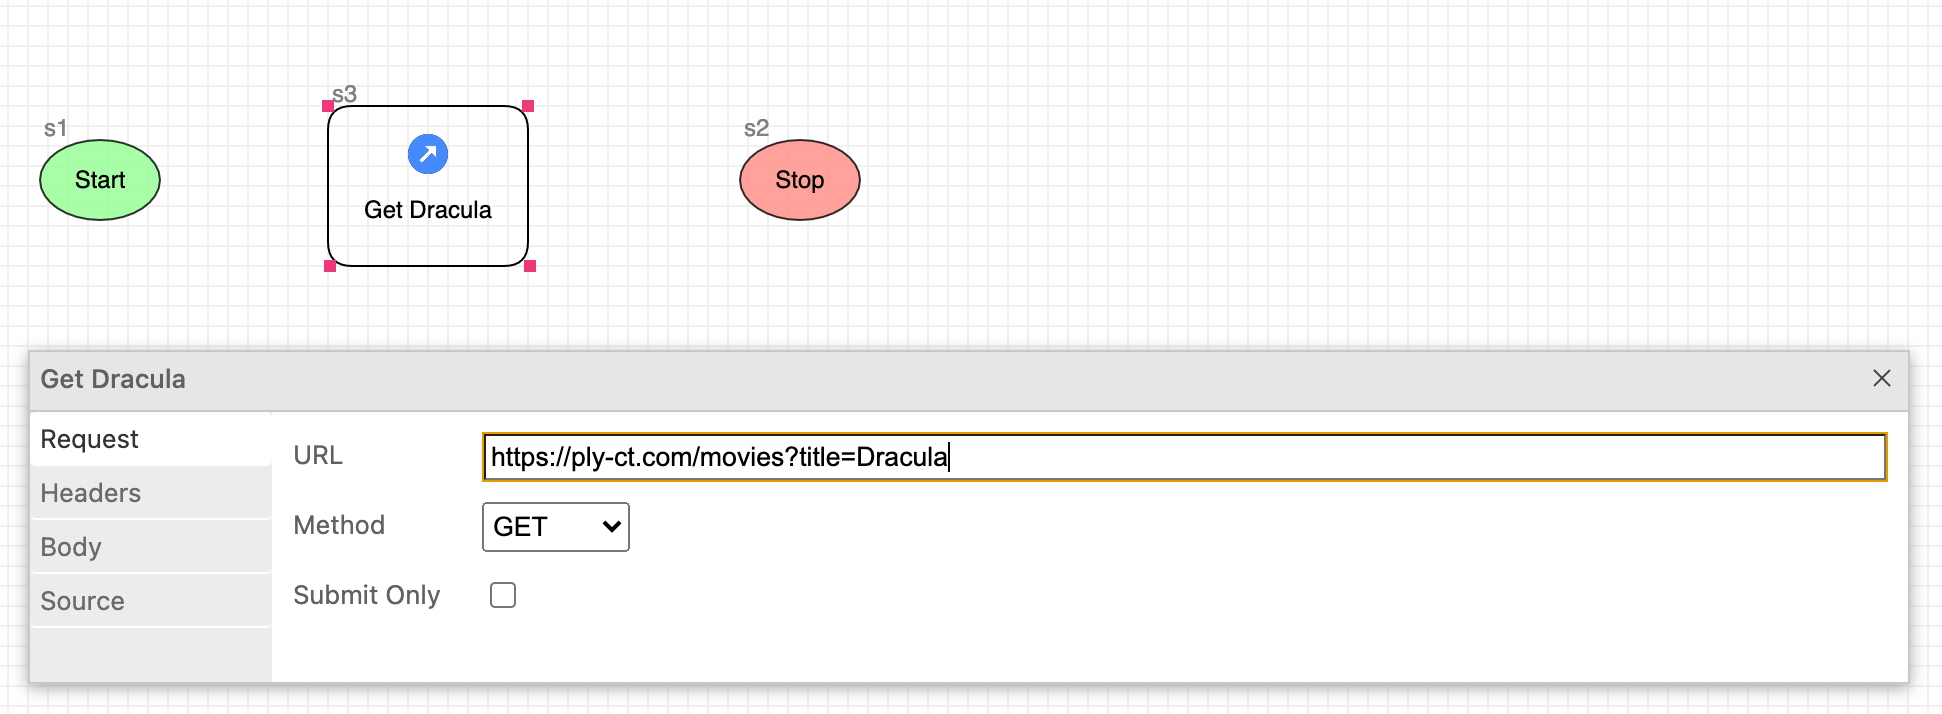
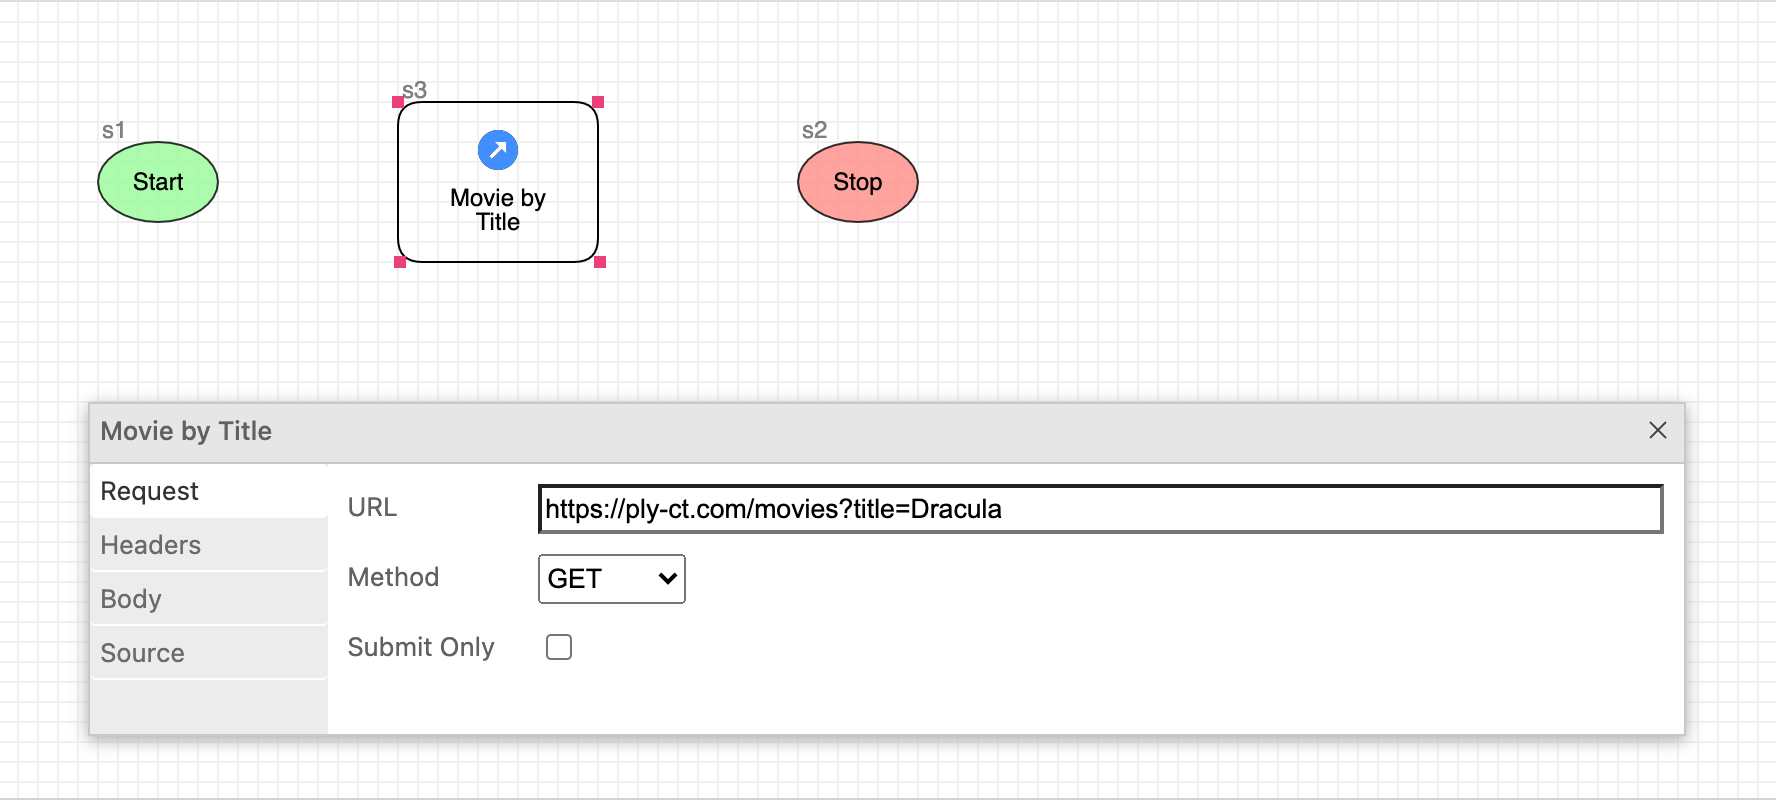
docs

diff --git a/docs/_includes/copy_to_clipboard.html b/docs/_includes/copy_to_clipboard.html
@@ -6,7 +6,7 @@ function copyToClipboard(btn) {
   document.execCommand('copy');
 }
 </script>
-<input class="copy-txt" readonly type="text" value="{{ text }}" /><span class="copy-btn" title="Copy to clipboard" onclick="copyToClipboard(this)"><svg class="copy-adj" viewBox="0 0 14 16" version="1.1" width="16" height="16" aria-hidden="true"><path fill-rule="evenodd" d="M2 13h4v1H2v-1zm5-6H2v1h5V7zm2 3V8l-3 3 3 3v-2h5v-2H9zM4.5 9H2v1h2.5V9zM2 12h2.5v-1H2v1zm9 1h1v2c-.02.28-.11.52-.3.7-.19.18-.42.28-.7.3H1c-.55 0-1-.45-1-1V4c0-.55.45-1 1-1h3c0-1.11.89-2 2-2 1.11 0 2 .89 2 2h3c.55 0 1 .45 1 1v5h-1V6H1v9h10v-2zM2 5h8c0-.55-.45-1-1-1H8c-.55 0-1-.45-1-1s-.45-1-1-1-1 .45-1 1-.45 1-1 1H3c-.55 0-1 .45-1 1z"></path></svg>&nbsp;</span>
+<span style="white-space:nowrap;"><input class="copy-txt" readonly type="text" value="{{ text }}" /><span class="copy-btn" title="Copy to clipboard" onclick="copyToClipboard(this)"><svg class="copy-adj" viewBox="0 0 14 16" version="1.1" width="16" height="16" aria-hidden="true"><path fill-rule="evenodd" d="M2 13h4v1H2v-1zm5-6H2v1h5V7zm2 3V8l-3 3 3 3v-2h5v-2H9zM4.5 9H2v1h2.5V9zM2 12h2.5v-1H2v1zm9 1h1v2c-.02.28-.11.52-.3.7-.19.18-.42.28-.7.3H1c-.55 0-1-.45-1-1V4c0-.55.45-1 1-1h3c0-1.11.89-2 2-2 1.11 0 2 .89 2 2h3c.55 0 1 .45 1 1v5h-1V6H1v9h10v-2zM2 5h8c0-.55-.45-1-1-1H8c-.55 0-1-.45-1-1s-.45-1-1-1-1 .45-1 1-.45 1-1 1H3c-.55 0-1 .45-1 1z"></path></svg>&nbsp;</span></span>
 <script language="javascript">
   var inputs = document.querySelectorAll(".copy-txt");
   for (var i = 0; true; i++) {

diff --git a/docs/css/site.css b/docs/css/site.css
@@ -56,7 +56,7 @@ li {
   margin-bottom: 3px;
 }
 li > img {
-  margin: 3px 0;
+  margin: 5px 0;
 }
 li > ul {
   top: 1px;
@@ -303,6 +303,9 @@ li > ul {
   position: absolute;
   width: 24px;
   margin: 0 5px;
+}
+.after-icon {
+  margin-left: 27px;
 }
 .y {
   font-size: 18px;

diff --git a/docs/topics/quickstart.md b/docs/topics/quickstart.md
@@ -18,21 +18,15 @@ or [VS Code Ply](vscode-ply).
      <img src="../img/extensions.png" alt="Extensions Icon" class="icon-img">
    - Search for "Ply", and click its `Install` button.
 
-## Create a workspace folder for your Ply flows
-1. Launch VS Code if not already running.
-1. From the menu: File > Add Folder to Workspace..., then select and/or create a folder.
-1. Click the Explorer icon in VS Code's Activity Bar:
-   <img src="../img/explorer.png" alt="Explorer Icon" class="icon-img">
-1. Right-click on your workspace folder, select New Folder, and create a subfolder named "flows".
-
-## Create a new flow
-1. In the Explorer tree, right-click on the "flows" folder you just created and select New File.
-1. Name the file "get-movies.ply.flow" (.ply.flow is the default flowFiles extension, which can be modified in [Config](config));
+## Create a Ply flow
+1. Launch VS Code, and in its Activity Bar click the Test Explorer icon:
+   <img src="../img/test-explorer.png" alt="Text Explorer Icon" class="icon-img">
+1. Drop down Test Explorer's meatball menu
+   <img src="../img/meatball.png" alt="Meatball Menu" class="icon-img" style="margin:0"><span class="after-icon">, then select "New Ply Flow".</span>
+1. Name the flow "get-movies.ply.flow".
 1. Your newly-created flow should appear containing two steps: Start and Stop:  
    <img src="../img/get-movies-1.png" alt="get-movies 1" width="540px">
-1. In the Activity Bar, click on the Test Explorer icon:
-   <img src="../img/test-explorer.png" alt="Text Explorer Icon" class="icon-img">
-1. Expand the Flows group, and you should see get-movies.ply.flow along with its steps in the tree.
+1. Expand the Flows group in Test Explorer, and you should see get-movies.ply.flow.
 
 ## Run your flow
 1. In Ply's flow diagram toolbar (or in the Test Explorer item hover menu), click the run icon:
@@ -40,7 +34,7 @@ or [VS Code Ply](vscode-ply).
    When prompted, select "Submit without verifying" (Submit is Ply-speak for "don't check run results").
 1. To show flow/step statuses, the diagram automatically switches to Inspect mode, indicated by the check icon in the toolbar:
    <img src="../img/check.png" alt="Inspect Mode Icon" class="icon-img" style="width:22px;">
-1. So far our flow doesn't really do anything interesting. However, this does illustrate a couple of points:
+1. So far our flow doesn't do anything interesting. However, this illustrates a couple of points:
    - In Inspect mode, each step that executed is drawn with a heavy border around it:  
    <img src="../img/get-movies-1-inspect.png" alt="get-movies 1 Inspect" width="540px">
    - VS Code's output window shows what happened:
@@ -58,18 +52,18 @@ The idea of Ply is to test an API by submitting HTTP requests and validating res
 1. Remove the link joining Start to Stop by selecting it and hitting the Delete key.
 1. From Ply's toolbox view to the right of our diagram, drag in the step that's labeled *Request*. Position it somewhere
    between Start and Stop.
-1. Double-click on this "New Request" step to rename it "Get Dracula" (it should adopt a blue background, enabling you to edit its name).
-1. You'll notice that Ply Configurator also popped up when you double-clicked. After renaming, select "Get Dracula" again so that 
-   it shows up in Configurator. Then enter this for its URL: {% include copy_to_clipboard.html text="https://ply-ct.com/movies?title=Dracula" %}  
-   <img src="../img/get-dracula.png" alt="Get Dracula" width="971px">  
-   This points to [ply-movies](https://github.com/ply-ct/ply-movies#readme), Ply's sample API containing hundreds of horror movies
+1. Double-click on the "New Request" label to rename it "Movie by Title".
+1. If you double-click on the Request step somewhere other than its label, Ply Configurator pops up. After renaming, double-click "Movie by Title"
+   (or right-click and select Configure). Then enter this for its URL: {% include copy_to_clipboard.html text="https://ply-ct.com/movies?title=Dracula" %}  
+   <img src="../img/get-dracula.png" alt="Movie by Title" width="888px">  
+   This points to [ply-movies](https://github.com/ply-ct/ply-movies#readme), Ply's playground REST API containing a few hundred horror movies
    from the 1930s.
 
 ## Draw links between flow steps
 1. To draw new links, switch to Connect mode:
    <img src="../img/connect.png" alt="Connect Mode Icon" class="icon-img" style="width:22px;">  
-1. Then click/drag your mouse to draw a link between Start and "Get Dracula".
-1. Do the same between "Get Dracula" and Stop.
+1. Then click/drag your mouse to draw a link between Start and "Movie by Title".
+1. Do the same between "Movie by Title" and Stop.
 1. Switch back to Select mode, and save your flow (File > Save File, or Ctrl/Cmd-S).
 
 ## Run with expected results
@@ -77,17 +71,17 @@ The idea of Ply is to test an API by submitting HTTP requests and validating res
 1. Notice that this time, the Output view displays a line saying: Request 's3' PASSED. What actually happened was that Ply
    executed get-movies.ply.flow, created actual runtime results, and then copied those results to create an expected-results
    file before comparing.
-1. Double-click "Get Dracula" to inspect its Request and Response.
-1. Run the flow again - you won't get prompted since expected results now exist. This time the flow fails, and "Get Dracula"
+1. Double-click the "Movie by Title" step (not it's label) to inspect its Request and Response.
+1. Run your flow again - you won't get prompted since expected results now exist. This time the flow fails, and "Movie by Title"
    is bordered in red.
-1. To understand why the test failed, right-click on "Get Dracula" and select "Compare Results":  
-   <img src="../img/get-movies-1-results.png" alt="get-movies-1 Results" width="1162px">  
+1. To understand why the test failed, right-click on "Movie by Title" and select "Compare Results":  
+   <img src="../img/get-movies-1-results.png" alt="get-movies-1 Results" width="943px">  
    VS Code's diff editor indicates there are a few discrepancies between expected (on the left) versus actual (on the right)
-   results. Lines 1 and 7 both differ expected v. actual, but these differences are only comments; hence the checkmark in
+   results. Lines 1 and 7 both differ, but these differences are only comments; hence the checkmark in
    the left gutter of the editor. However, line 15 has a significant difference in 'date' header values.
 1. To fix this, scroll to the top of the (left-hand) expected editor, and click the [Code Lens](https://code.visualstudio.com/blogs/2017/02/12/code-lens-roundup)
    labeled "Open result file". (The full expected-results file includes outcomes for Start and Stop, so the line numbers are different from 
-   the "Get Dracula" result fragment.) Remove the 'date' header (all of line 18). In fact, remove these header lines as well:
+   the "Movie by ID" result fragment.) Remove the 'date' header (all of line 18). In fact, remove these header lines as well:
      - connection
      - content-length
      - etag
@@ -95,7 +89,7 @@ The idea of Ply is to test an API by submitting HTTP requests and validating res
      - x-powered-by  
    
    You're left with just 'content-type', which is the only response header we care about matching. When Ply submits a request, for
-   comparison it only captures response headers that appear in expected results. This makes it convenient to exclude unimportant headers.
+   comparison it captures just those response headers that appear in expected results. This makes it convenient to exclude unimportant headers.
 1. Save and close the expected results and comparison editors; then re-run get-movies.ply.flow. This time it should succeed.
 
 ## Reference previous results in a downstream step
